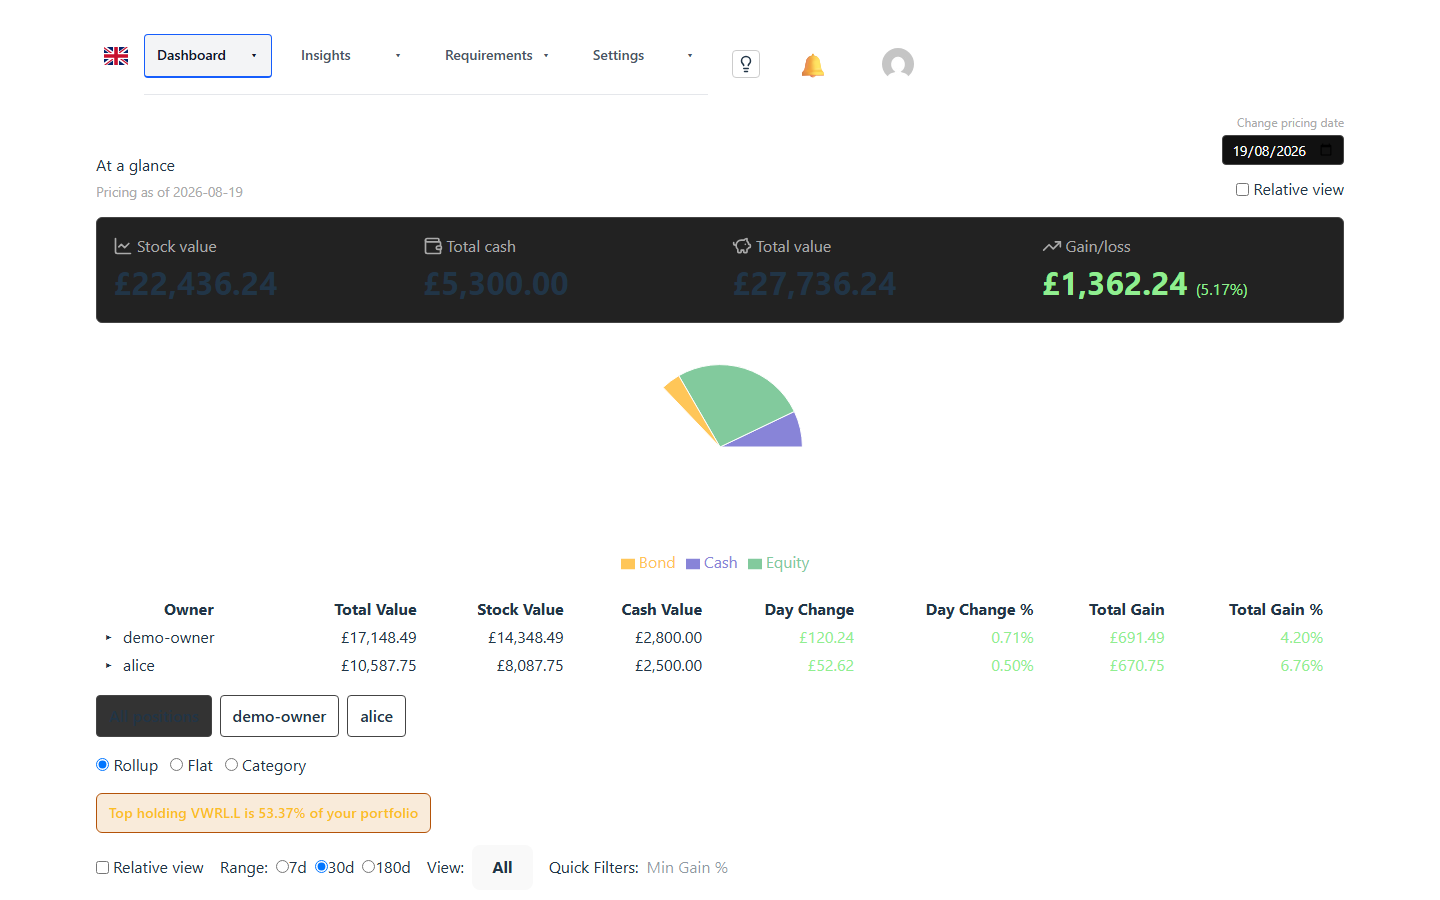
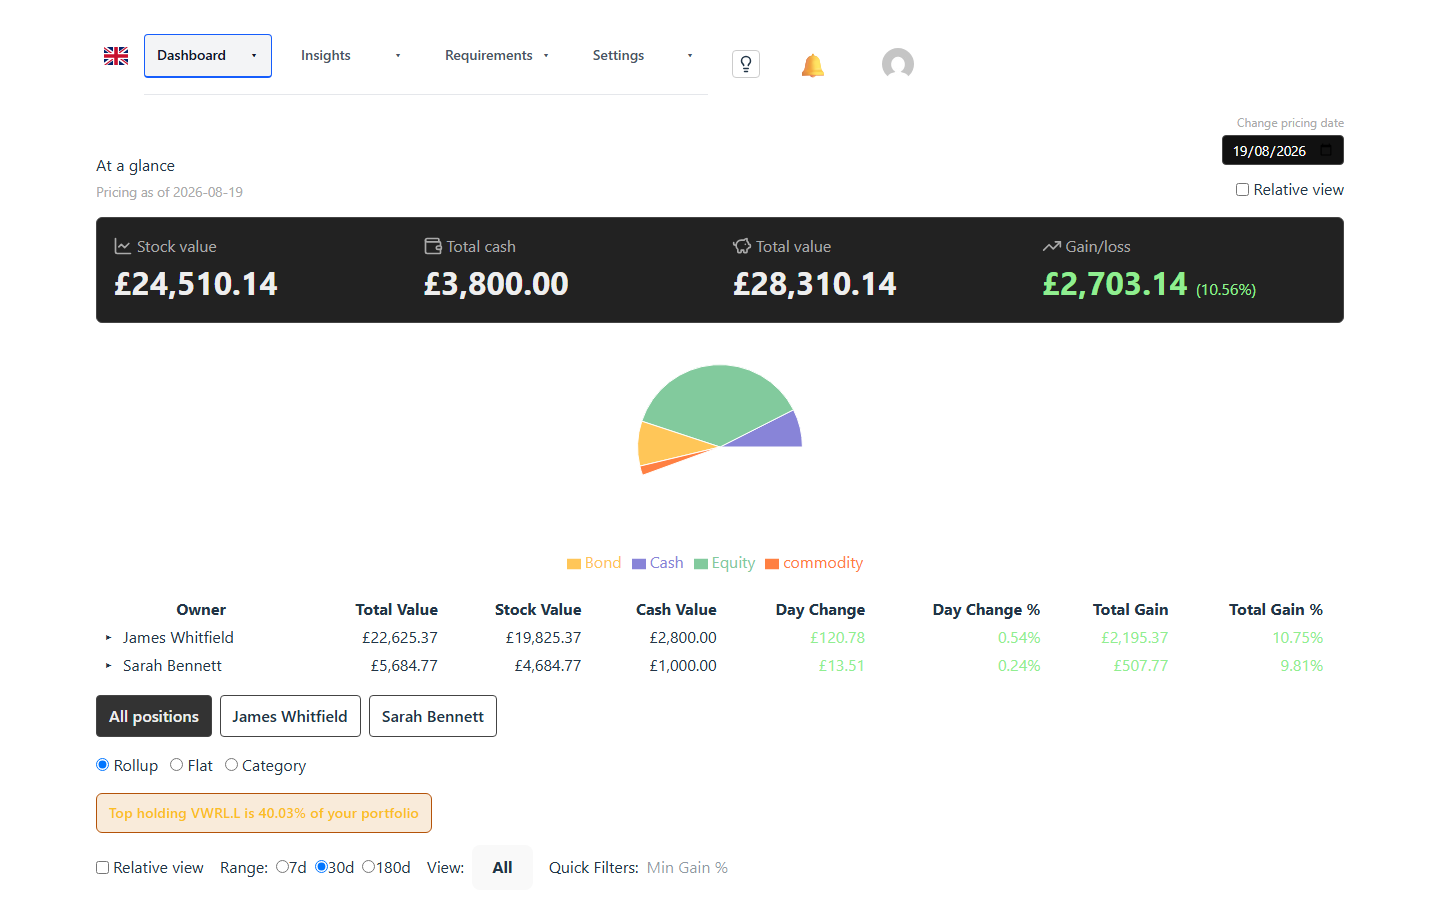
Fix light-mode contrast, instrument-type wiring, and raw owner-slug display in Holdings Table detail flyout
PortfolioSummary's KPI box and GroupPortfolioView's owner/account toggle
buttons hardcoded a dark background but left text color inherited from
the page theme, so both were nearly unreadable in light mode (including
Playwright's default screenshot colorScheme, which is why the README's
qa-screenshots looked blank). HoldingsTable's onSelectInstrument callback
dropped the row's instrument_type, so InstrumentDetail always fell back
to "Other" when opened from the Holdings Table. InstrumentPositionsTable
also rendered the raw owner slug instead of the display name already
available via utils/owners.ts elsewhere on the same page.

Fixes #6874

diff --git a/frontend/src/components/GroupPortfolioView.tsx b/frontend/src/components/GroupPortfolioView.tsx
@@ -319,6 +319,7 @@ export function GroupPortfolioView({ slug, owners, onTradeInfo }: Props) {
   const [selectedInstrument, setSelectedInstrument] = useState<{
     ticker: string;
     name: string;
+    instrumentType?: string | null;
   } | null>(null);
   const [groupDefinitions, setGroupDefinitions] = useState<
     InstrumentGroupDefinition[]
@@ -1296,7 +1297,7 @@ export function GroupPortfolioView({ slug, owners, onTradeInfo }: Props) {
             borderRadius: "4px",
             border: "1px solid #444",
             backgroundColor: activeOwner === null ? "#333" : "transparent",
-            color: "inherit",
+            color: activeOwner === null ? "#eee" : "inherit",
             cursor: "pointer",
           }}
         >
@@ -1315,7 +1316,7 @@ export function GroupPortfolioView({ slug, owners, onTradeInfo }: Props) {
               border: "1px solid #444",
               backgroundColor:
                 activeOwner === tab.value ? "#333" : "transparent",
-              color: "inherit",
+              color: activeOwner === tab.value ? "#eee" : "inherit",
               cursor: "pointer",
             }}
           >
@@ -1346,7 +1347,7 @@ export function GroupPortfolioView({ slug, owners, onTradeInfo }: Props) {
               border: "1px solid #444",
               backgroundColor:
                 activeAccountType === null ? "#333" : "transparent",
-              color: "inherit",
+              color: activeAccountType === null ? "#eee" : "inherit",
               cursor: "pointer",
             }}
           >
@@ -1367,7 +1368,7 @@ export function GroupPortfolioView({ slug, owners, onTradeInfo }: Props) {
                   border: "1px solid #444",
                   backgroundColor:
                     activeAccountType === type ? "#333" : "transparent",
-                  color: "inherit",
+                  color: activeAccountType === type ? "#eee" : "inherit",
                   cursor: "pointer",
                 }}
               >
@@ -1453,8 +1454,8 @@ export function GroupPortfolioView({ slug, owners, onTradeInfo }: Props) {
             showAccount={showAccount}
             groupingMode={displayMode === "category" ? "category" : "flat"}
             categoryDefinitions={groupDefinitions}
-            onSelectInstrument={(ticker, name) =>
-              setSelectedInstrument({ ticker, name })
+            onSelectInstrument={(ticker, name, instrumentType) =>
+              setSelectedInstrument({ ticker, name, instrumentType })
             }
             selectedTicker={selectedInstrument?.ticker}
           />
@@ -1465,6 +1466,10 @@ export function GroupPortfolioView({ slug, owners, onTradeInfo }: Props) {
             <InstrumentDetail
               ticker={selectedInstrument.ticker}
               name={selectedInstrument.name}
+              instrument_type={selectedInstrument.instrumentType}
+              resolveOwnerName={(owner) =>
+                getOwnerDisplayName(ownerLookup, owner, owner)
+              }
               onClose={() => setSelectedInstrument(null)}
             />
           )}

diff --git a/frontend/src/components/InstrumentDetail.tsx b/frontend/src/components/InstrumentDetail.tsx
@@ -42,6 +42,7 @@ type Props = {
   hidePositions?: boolean;
   initialHistoryDays?: number;
   onHistoryRangeChange?: (days: number) => void;
+  resolveOwnerName?: (owner: string) => string;
 };
 
 type Price = {
@@ -64,6 +65,7 @@ type PositionsTableProps = {
   negativeColor?: string;
   linkColor?: string;
   mutedColor?: string;
+  resolveOwnerName?: (owner: string) => string;
 };
 
 // ───────────────── helpers ─────────────────
@@ -94,6 +96,7 @@ export function InstrumentPositionsTable({
   negativeColor = "red",
   linkColor = "#00d8ff",
   mutedColor = "#888",
+  resolveOwnerName,
 }: PositionsTableProps) {
   const { t } = useTranslation();
   const { baseCurrency, relativeViewEnabled } = useConfig();
@@ -150,7 +153,7 @@ export function InstrumentPositionsTable({
                   to={`/portfolio/${encodeURIComponent(pos.owner ?? "")}`}
                   style={{ color: linkColor, textDecoration: "none" }}
                 >
-                  {pos.owner} – {pos.account}
+                  {resolveOwnerName ? resolveOwnerName(pos.owner) : pos.owner} – {pos.account}
                 </Link>
               </td>
               {!relativeViewEnabled && (
@@ -210,6 +213,7 @@ export function InstrumentDetail({
   hidePositions = false,
   initialHistoryDays,
   onHistoryRangeChange,
+  resolveOwnerName,
 }: Props) {
   const { t } = useTranslation();
   const { baseCurrency } = useConfig();
@@ -810,6 +814,7 @@ export function InstrumentDetail({
             negativeColor={palette.negative}
             linkColor={palette.link}
             mutedColor={palette.muted}
+            resolveOwnerName={resolveOwnerName}
           />
         </>
       )}

diff --git a/frontend/src/components/AccountBlock.tsx b/frontend/src/components/AccountBlock.tsx
@@ -32,6 +32,7 @@ export function AccountBlock({
   const [selectedInstrument, setSelectedInstrument] = useState<{
     ticker: string;
     name: string;
+    instrumentType?: string | null;
   } | null>(null);
   const { baseCurrency } = useConfig();
 
@@ -74,8 +75,8 @@ export function AccountBlock({
 
           <HoldingsTable
             holdings={account.holdings}
-            onSelectInstrument={(ticker, name) =>
-              setSelectedInstrument({ ticker, name })
+            onSelectInstrument={(ticker, name, instrumentType) =>
+              setSelectedInstrument({ ticker, name, instrumentType })
             }
             showForward7d={showForward7d}
             showForward30d={showForward30d}
@@ -86,6 +87,7 @@ export function AccountBlock({
             <InstrumentDetail
               ticker={selectedInstrument.ticker}
               name={selectedInstrument.name}
+              instrument_type={selectedInstrument.instrumentType}
               onClose={() => setSelectedInstrument(null)}
             />
           )}

diff --git a/frontend/src/components/HoldingsTable.tsx b/frontend/src/components/HoldingsTable.tsx
@@ -58,7 +58,11 @@ type Props = {
   // Rollup rows have no per-lot fields, so lot-only filters and sorts are suppressed (§3 rule 2).
   rollupMode?: boolean;
   showAccount?: boolean;
-  onSelectInstrument?: (ticker: string, name: string) => void;
+  onSelectInstrument?: (
+    ticker: string,
+    name: string,
+    instrumentType?: string | null,
+  ) => void;
   selectedTicker?: string;
   showForward7d?: boolean;
   showForward30d?: boolean;
@@ -726,7 +730,7 @@ export function HoldingsTable({
             if (group && !expanded && !isFirstGroupRow) return null;
             const isSelected = h.ticker === selectedTicker;
             const handleSelect = () => {
-              onSelectInstrument?.(h.ticker, h.name ?? h.ticker);
+              onSelectInstrument?.(h.ticker, h.name ?? h.ticker, h.instrument_type);
             };
             const handleClick = (event: MouseEvent<HTMLButtonElement>) => {
               event.preventDefault();

diff --git a/frontend/src/components/PortfolioSummary.tsx b/frontend/src/components/PortfolioSummary.tsx
@@ -154,7 +154,7 @@ function SummaryCard({ label, icon, value, secondary, accentColor }: SummaryCard
         style={{
           fontSize: "2rem",
           fontWeight: "bold",
-          color: accentColor,
+          color: accentColor ?? "#eee",
           display: "flex",
           alignItems: "baseline",
           gap: "0.5rem",
